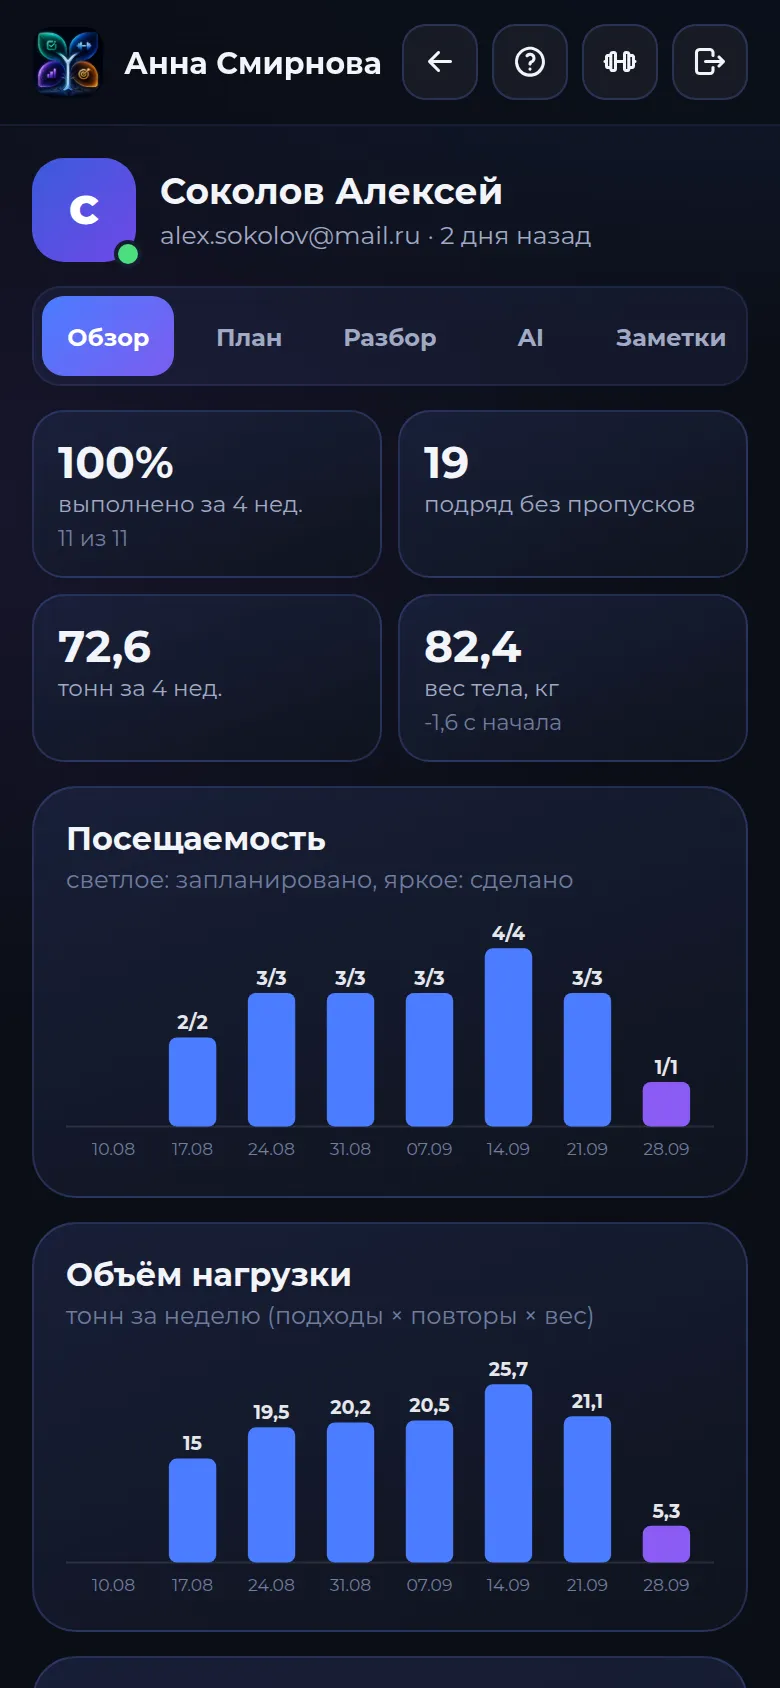
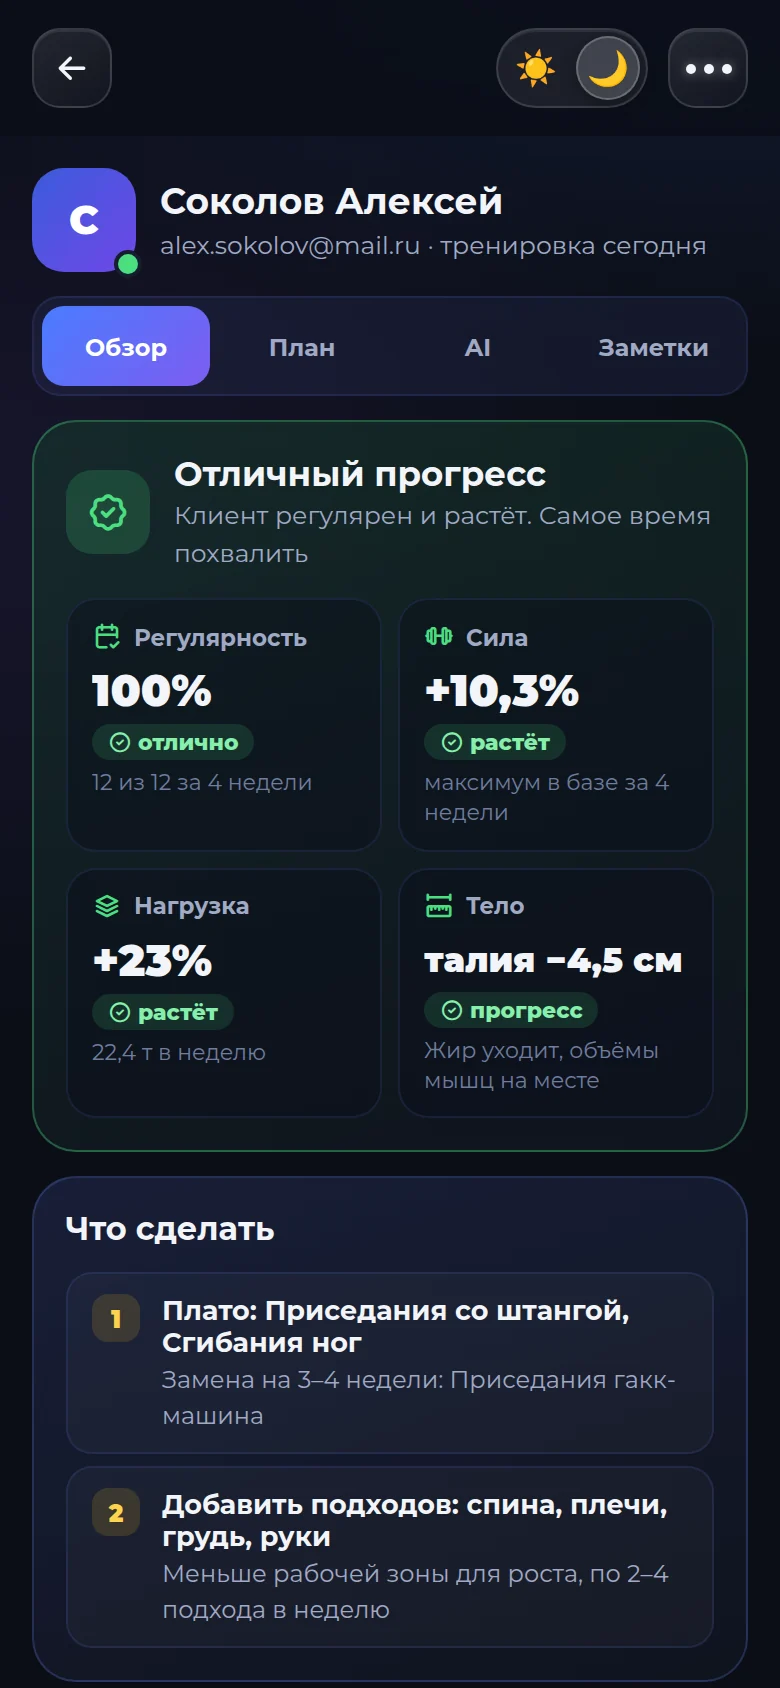
Add files via upload

diff --git a/start.html b/start.html
@@ -218,6 +218,14 @@ body:not(.for-coach) [data-for="coach"]{display:none!important}
 .modesw button{height:34px;padding:0 14px;border:none;border-radius:10px;background:none;color:var(--soft);font-family:inherit;font-size:13px;font-weight:700;cursor:pointer;transition:background .25s,color .25s;white-space:nowrap}
 .modesw button.on{background:var(--grad);background-size:160% 160%;color:#fff;box-shadow:0 6px 18px rgba(99,102,241,.35)}
 .modesw-m{display:none}
+/* переключатель на телефоне: закреплён сверху, пока не появится кнопка действия */
+@media (max-width:980px){
+  .modesw-m{display:flex;justify-content:center;position:sticky;top:0;z-index:55;padding:calc(12px + env(safe-area-inset-top,0px)) 16px 10px;transition:transform .4s var(--ease),opacity .3s}
+  .modesw-m::before{content:'';position:absolute;inset:0 0 -18px;background:linear-gradient(0deg,transparent,rgba(7,9,15,.85) 40%,#07090F);opacity:0;transition:opacity .3s;pointer-events:none;z-index:-1}
+  .modesw-m.stuck::before{opacity:1}
+  .modesw-m.away{transform:translateY(-120%);opacity:0;pointer-events:none}
+  .modesw-m .modesw{width:100%;max-width:360px;background:rgba(20,24,40,.8);backdrop-filter:blur(12px);-webkit-backdrop-filter:blur(12px)} .modesw-m .modesw button{flex:1}
+}
 .c-hero-ph{position:relative}
 .c-hero .ai-phones{height:600px}
 .c-hero .chip.cc1{left:-10px;bottom:120px} .c-hero .chip.cc2{right:-6px;top:60px}
@@ -246,8 +254,6 @@ body:not(.for-coach) [data-for="coach"]{display:none!important}
   .c-hero .ai-phones{height:520px} .c-hero-ph{margin-top:10px}
 }
 @media (max-width:760px){
-  .modesw-m{display:flex;justify-content:center;padding:calc(14px + env(safe-area-inset-top,0px)) 16px 0;position:relative;z-index:5}
-  .modesw-m .modesw{width:100%;max-width:360px} .modesw-m .modesw button{flex:1}
   body .hero{padding-top:24px}
   .c-teaser{flex-direction:column;align-items:flex-start;padding:20px}
   .c-hero .ai-phones{height:440px} .c-hero .chip{display:none}
@@ -675,7 +681,7 @@ footer{border-top:1px solid var(--line);padding:34px 0 calc(34px + env(safe-area
     <a href="#features">Возможности</a><a href="#ai">AI-тренер</a><a href="#money">Деньги</a><a href="#start">Как начать</a><a href="#faq">Вопросы</a>
   </div>
   <div class="nav-links" data-for="coach">
-    <a href="#c-pain">Зачем</a><a href="#c-feat">Возможности</a><a href="#c-how">Как начать</a><a href="#c-morning">Сводка</a><a href="#c-faq">Вопросы</a>
+    <a href="#c-pain">Зачем</a><a href="#c-feat">Возможности</a><a href="#c-how">Как начать</a><a href="#c-morning">Утро тренера</a><a href="#c-faq">Вопросы</a>
   </div>
   <div class="sp"></div>
   <a class="btn btn-ghost btn-sm nav-login" href="./#/login" data-for="me">Войти</a>
@@ -729,7 +735,7 @@ footer{border-top:1px solid var(--line);padding:34px 0 calc(34px + env(safe-area
   <div class="c-hero-ph">
     <div class="ai-phones coach-phones">
       <div class="phone pa float"><div class="scr"><img src="img/landing/coach_client.webp" alt="Карточка клиента" loading="lazy"></div></div>
-      <div class="phone pb float"><div class="scr"><img src="img/landing/coach_home.webp" alt="Сводка по клиентам" loading="lazy"></div></div>
+      <div class="phone pb float"><div class="scr"><img src="img/landing/coach_home.webp" alt="Главная кабинета тренера" loading="lazy"></div></div>
     </div>
     <div class="c-notif" id="c-notif" aria-hidden="true"></div>
   </div>
@@ -881,15 +887,15 @@ footer{border-top:1px solid var(--line);padding:34px 0 calc(34px + env(safe-area
 <section class="coach-sec" id="c-feat" data-for="coach"><div class="wrap ai-grid">
   <div class="ai-phones coach-phones rv">
     <div class="phone pa float"><div class="scr"><img src="img/landing/coach_client.webp" alt="Карточка клиента в кабинете тренера" loading="lazy"></div></div>
-    <div class="phone pb float"><div class="scr"><img src="img/landing/coach_home.webp" alt="Сводка по клиентам" loading="lazy"></div></div>
+    <div class="phone pb float"><div class="scr"><img src="img/landing/coach_home.webp" alt="Главная кабинета тренера" loading="lazy"></div></div>
   </div>
   <div>
     <span class="eyebrow">Возможности</span>
     <h2 class="rv">Все ученики<br>в <span class="grad-t">одном кабинете</span></h2>
-    <p class="sec-lead rv">Онлайн или в зале: вы ведёте план, клиент тренируется по нему в своём YOU. Утром открыли сводку и за минуту поняли, кто молодец, кто пропал и кому что поменять.</p>
+    <p class="sec-lead rv">Онлайн или в зале: вы ведёте план, клиент тренируется по нему в своём YOU. Утром открыли кабинет и за минуту поняли, кто молодец, кто пропал и кому что поменять.</p>
     <div class="ai-feats rv">
-      <div class="ai-feat"><i class="ti ti-layout-dashboard"></i><b>Сводка и лента</b><span>Кто тренировался, рекорды, пропуски и комментарии по всем клиентам</span></div>
-      <div class="ai-feat"><i class="ti ti-chart-bar"></i><b>Обзор клиента</b><span>Посещаемость, объём, сила, вес и замеры тела с выводами: жир уходит или растут объёмы</span></div>
+      <div class="ai-feat"><i class="ti ti-layout-dashboard"></i><b>Главная и лента</b><span>Кто тренируется сегодня, рекорды, пропуски и комментарии. Слайды и плитки настраиваете под себя</span></div>
+      <div class="ai-feat"><i class="ti ti-chart-bar"></i><b>Обзор клиента</b><span>Оценка по четырём опорам: регулярность, сила, нагрузка и тело. Плюс что сделать дальше</span></div>
       <div class="ai-feat"><i class="ti ti-template"></i><b>Шаблоны программ</b><span>Собрали раз, назначаете в два клика. Веса подставятся из истории клиента</span></div>
       <div class="ai-feat"><i class="ti ti-send"></i><b>Итоги недели</b><span>Цифры считаются сами, вы добавляете комментарий, клиент видит в приложении</span></div>
       <div class="ai-feat"><i class="ti ti-sparkles"></i><b>AI в помощь</b><span>Подскажет прогрессию и плато, а решение за вами. Клиента он у вас не заберёт</span></div>
@@ -916,7 +922,7 @@ footer{border-top:1px solid var(--line);padding:34px 0 calc(34px + env(safe-area
     </ul>
   </div>
   <div class="c-dash" id="c-dash" aria-hidden="true">
-    <div class="cd-top"><div><b>Сводка</b><span>среда, 30 сентября</span></div><span class="cd-live"><i></i>онлайн</span></div>
+    <div class="cd-top"><div><b>Сегодня</b><span>среда, 30 сентября</span></div><span class="cd-live"><i></i>онлайн</span></div>
     <div class="cd-kp">
       <div><b data-count="7" data-suf="/8">0</b><span>в ритме</span></div>
       <div><b data-count="23">0</b><span>тренировок за неделю</span></div>
@@ -1204,6 +1210,7 @@ footer{border-top:1px solid var(--line);padding:34px 0 calc(34px + env(safe-area
     var ins = document.getElementById('start').getBoundingClientRect();
     var inIns = ins.top < innerHeight * .7 && ins.bottom > innerHeight * .3;
     mcta.classList.toggle('show', y > heroEnd && !inIns && !(cta.top < innerHeight && cta.bottom > 0));
+    var msw = document.querySelector('.modesw-m'); if (msw) { msw.classList.toggle('stuck', y > 10); msw.classList.toggle('away', mcta.classList.contains('show')); }
   }
   addEventListener('scroll', onScroll, {passive:true}); onScroll();
 

diff --git a/sw.js b/sw.js
@@ -1,7 +1,7 @@
 /* ============================================================
    SERVICE WORKER — офлайн кеш
    ============================================================ */
-const CACHE = 'nik-system-v49';
+const CACHE = 'nik-system-v50';
 
 const STATIC = [
   '/my_life/',
